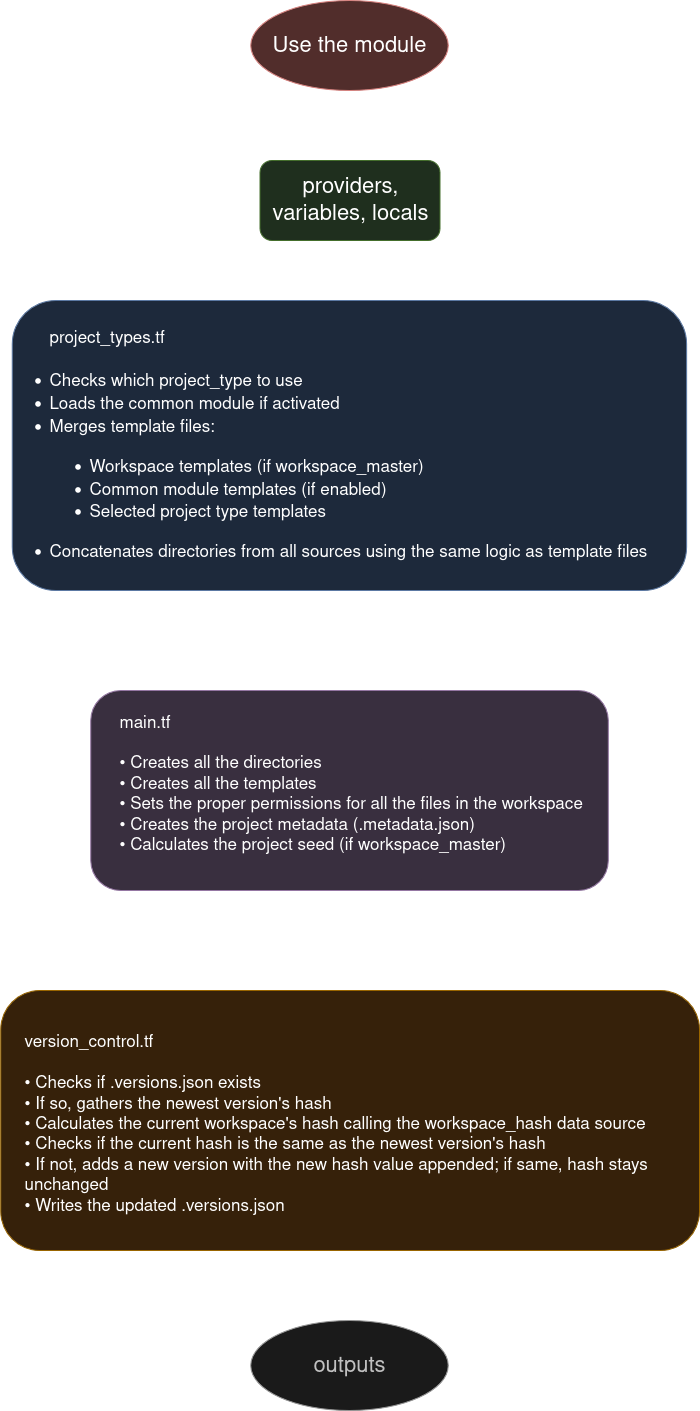
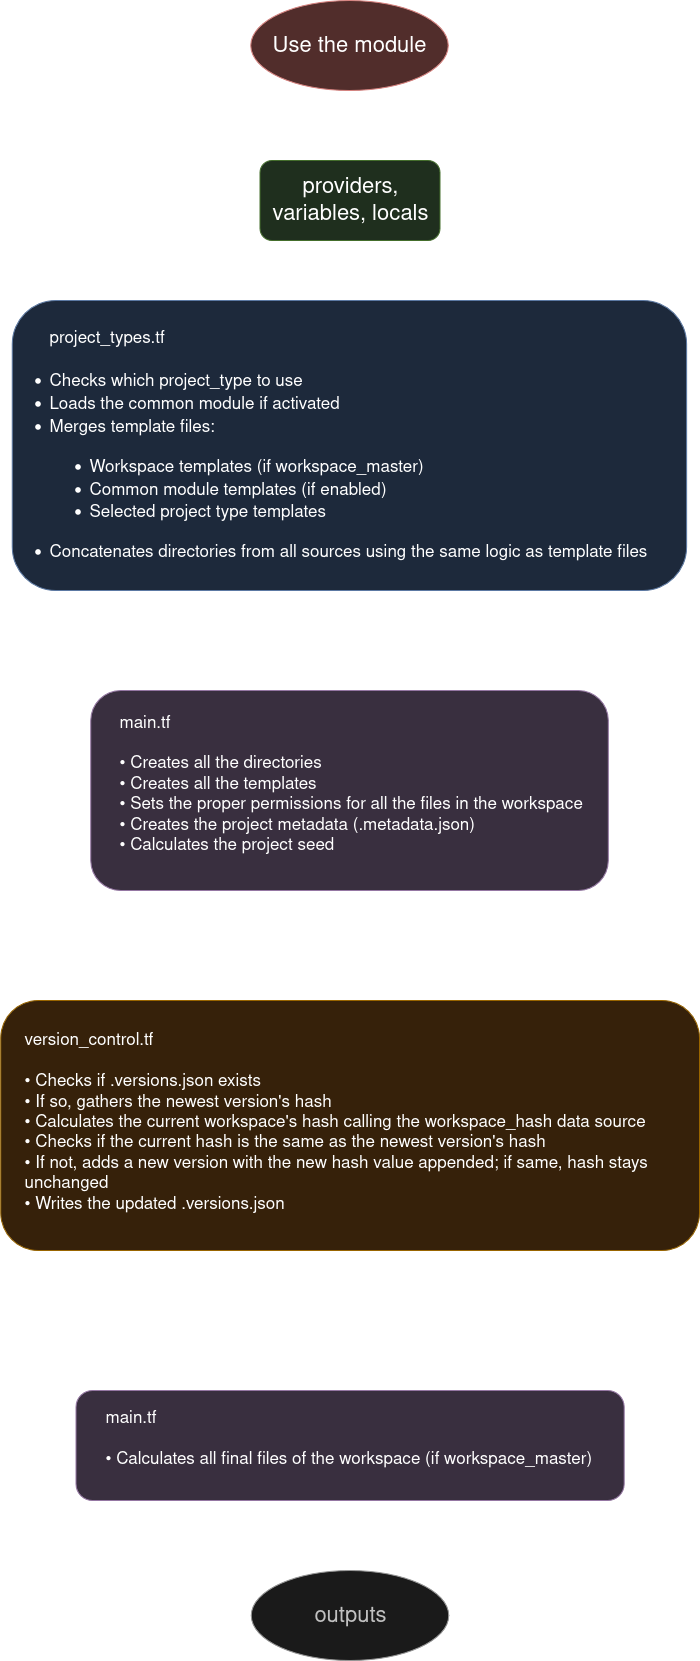
Ditch many dependencies on workspace_master, now scripts are handled internally, add workspace-level files output

diff --git a/docs/modules_workspace.md b/docs/modules_workspace.md
@@ -1,3 +1,5 @@
+TODO: document the workspace_tree or whatever variable in the table
+
 ## Module Flow
 
 <p align="center">
@@ -45,7 +47,6 @@
 > [!IMPORTANT]
 > - Only one project should have `workspace_master = true` unexpected behavior may occur otherwise.
 > - If no project has `workspace_master = true`, the `workspace` module will not be used.
-> - `version_control = true` depends on having a `workspace_master`.
 > - Only projects with `common = true` will use the `common` module.
 > - The `common` module uses metadata specific to each project.
 
@@ -58,7 +59,10 @@
 | <a name="output_metadata_file_path"></a> [metadata\_file\_path](#output\_metadata\_file\_path) | Path to the workspace metadata |
 | <a name="output_project_name"></a> [project\_name](#output\_project\_name) | Project name used |
 | <a name="output_template_files_created"></a> [template\_files\_created](#output\_template\_files\_created) | Template files created |
+| <a name="output_workspace_path"></a> [workspace\_path](#output\_workspace\_path) | Shows all the files in the workspace |
 | <a name="output_workspace_path"></a> [workspace\_path](#output\_workspace\_path) | Full path of the created workspace |
+
+> `workspace_files` depends `workspace_master = true`, if it does not exist then it will print an empty value.
 
 ## How to create your own project type
 
@@ -96,3 +100,7 @@ mv example.tf my_project_type.tf
 
 > [!NOTE]
 > Remember to add any templates you create to the module’s .tf file. Otherwise, they will not be used.
+
+## Known issues with more than one `workspace_master = true`
+
+- Causes version control to create a new version on the second run, from that point on it remains consistent

diff --git a/README.md b/README.md
@@ -118,7 +118,7 @@ workspace/
 
 ### Metadata Files
 
-- **`.seed.json`**: Cryptographic hash of workspace initial state for change detection
+- **`.seed.json`**: Hash of workspace's initial state for change detection
 - **`.metadata.json`**: Static file containing project name, type, creation date, creator, description, environment, and tags
 - **`.versions.json`**: Version tracking file maintaining history of workspace changes
 
